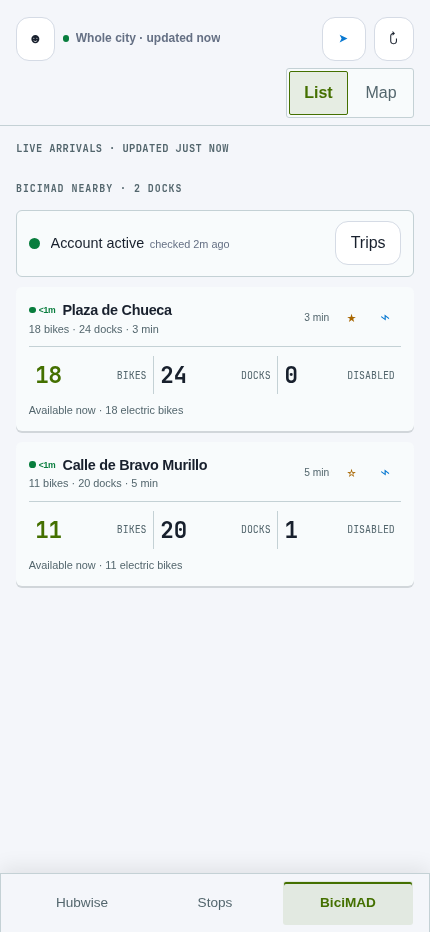
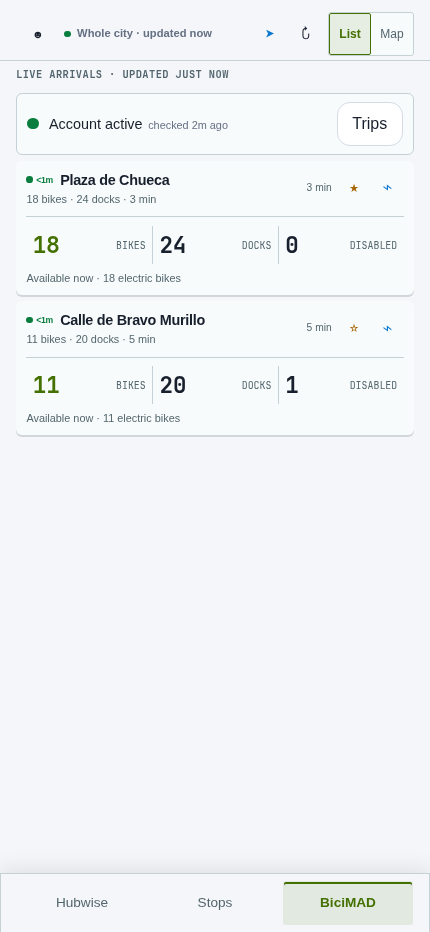
Collapse toolbar to one row and tighten departure boards

diff --git a/design/system-hubs.html b/design/system-hubs.html
@@ -1,3 +1,3 @@
 <!doctype html>
 <html lang="en" data-theme="dark"><head><meta charset="utf-8"><meta name="viewport" content="width=device-width,initial-scale=1"><title>Hubwise system hubs</title><link rel="stylesheet" href="../web/style.css"><style>body{min-height:100dvh}.study-label{margin:.7rem 0 .2rem;color:var(--signal-muted);font:700 .62rem ui-monospace,monospace;letter-spacing:.1em;text-transform:uppercase}</style></head>
-<body class="ui-signal ui-signal-v2 ui-signal-compact ui-signal-system"><header><button id="auth-button">☻</button><div id="header-context"><i></i><span>García Luna · 3 min</span></div><button id="nearby-stops-open">➤</button><button id="refresh-all">↻</button><nav id="view-toggle" class="segmented"><button aria-selected="true">List</button><button aria-selected="false">Map</button></nav></header><p id="status">Live arrivals · updated just now</p><p class="study-label">Nearby hubs · expanded state</p><main id="stops"><article class="place-card reachability-comfortable routes-expanded"><div class="place-card-heading"><h2><span class="freshness-dot fresh"></span> Madrid Río</h2><span class="muted">280 m</span><button class="place-directions">⌁</button><button class="place-directions">♢</button><button class="place-directions">⋯</button></div><div class="place-route"><span class="place-line">27</span><p><button class="stop-open place-stop-open">Stop 1836 · 180 m walk</button><br><small>direct <span class="route-later">· then 40 · 52 min</span></small></p><button class="place-route-directions" aria-label="Walking directions">↗</button><time>4 min</time></div><div class="place-route place-route-alternative"><span class="place-line">5</span><p><button class="stop-open place-stop-open">Stop 1836 · 180 m walk</button><br><small>direct <span class="route-later">· then 27 min</span></small></p><button class="place-route-directions" aria-label="Walking directions">↗</button><time>6 min</time></div><p class="age">Updated 12 seconds ago · 2 direct routes</p></article><article class="place-card reachability-tight"><div class="place-card-heading"><h2><span class="freshness-dot aging"></span> Puerta del Sol</h2><span class="muted">510 m</span><button class="place-directions">⌁</button><button class="place-directions">♢</button><button class="place-directions">⋯</button></div><div class="place-route"><span class="place-line">3</span><p><button class="stop-open place-stop-open">Stop 1836 · 180 m walk</button><br><small>direct <span class="route-later">· then 5 · 40 min</span></small></p><button class="place-route-directions" aria-label="Walking directions">↗</button><time>7 min</time></div></article><article class="place-card"><div class="place-card-heading"><h2><span class="freshness-dot fresh"></span> Tribunal</h2><span class="muted">690 m</span><button class="place-directions">⌁</button><button class="place-directions">♢</button><button class="place-directions">⋯</button></div><div class="place-route"><span class="place-line">10</span><p><button class="stop-open place-stop-open">Stop 1836 · 180 m walk</button><br><small>direct <span class="route-later">· then 5 · 40 min</span></small></p><button class="place-route-directions" aria-label="Walking directions">↗</button><time>9 min</time></div></article></main><nav id="primary-menu"><button aria-selected="true">Hubwise</button><button aria-selected="false">Stops</button><button aria-selected="false">BiciMAD</button></nav><button id="fab">+</button></body></html>
+<body class="ui-signal ui-signal-v2 ui-signal-compact ui-signal-system"><header><button id="auth-button">☻</button><div id="header-context"><i></i><span>García Luna · 3 min</span></div><button id="nearby-stops-open">➤</button><button id="refresh-all">↻</button><nav id="view-toggle" class="segmented"><button aria-selected="true">List</button><button aria-selected="false">Map</button></nav></header><p id="status">Live arrivals · updated just now</p><main id="stops"><article class="place-card reachability-comfortable routes-expanded"><div class="place-card-heading"><h2><span class="freshness-dot fresh"></span> Madrid Río</h2><span class="muted">280 m</span><button class="place-directions">⌁</button><button class="place-directions">♢</button><button class="place-directions">⋯</button></div><div class="place-route"><span class="place-line">27</span><p><button class="stop-open place-stop-open">Stop 1836 · 180 m walk</button><br><small>direct <span class="route-later">· then 40 · 52 min</span></small></p><button class="place-route-directions" aria-label="Walking directions">↗</button><time>4 min</time></div><div class="place-route place-route-alternative"><span class="place-line">5</span><p><button class="stop-open place-stop-open">Stop 1836 · 180 m walk</button><br><small>direct <span class="route-later">· then 27 min</span></small></p><button class="place-route-directions" aria-label="Walking directions">↗</button><time>6 min</time></div><p class="age">Updated 12 seconds ago · 2 direct routes</p></article><article class="place-card reachability-tight"><div class="place-card-heading"><h2><span class="freshness-dot aging"></span> Puerta del Sol</h2><span class="muted">510 m</span><button class="place-directions">⌁</button><button class="place-directions">♢</button><button class="place-directions">⋯</button></div><div class="place-route"><span class="place-line">3</span><p><button class="stop-open place-stop-open">Stop 1836 · 180 m walk</button><br><small>direct <span class="route-later">· then 5 · 40 min</span></small></p><button class="place-route-directions" aria-label="Walking directions">↗</button><time>7 min</time></div></article><article class="place-card"><div class="place-card-heading"><h2><span class="freshness-dot fresh"></span> Tribunal</h2><span class="muted">690 m</span><button class="place-directions">⌁</button><button class="place-directions">♢</button><button class="place-directions">⋯</button></div><div class="place-route"><span class="place-line">10</span><p><button class="stop-open place-stop-open">Stop 1836 · 180 m walk</button><br><small>direct <span class="route-later">· then 5 · 40 min</span></small></p><button class="place-route-directions" aria-label="Walking directions">↗</button><time>9 min</time></div></article></main><nav id="primary-menu"><button aria-selected="true">Hubwise</button><button aria-selected="false">Stops</button><button aria-selected="false">BiciMAD</button></nav><button id="fab">+</button></body></html>

diff --git a/design/system-stops.html b/design/system-stops.html
@@ -1,3 +1,3 @@
 <!doctype html>
 <html lang="en" data-theme="dark"><head><meta charset="utf-8"><meta name="viewport" content="width=device-width,initial-scale=1"><title>Hubwise system stops</title><link rel="stylesheet" href="../web/style.css"><style>body{min-height:100dvh}.study-label{margin:.7rem 0 .2rem;color:var(--signal-muted);font:700 .62rem ui-monospace,monospace;letter-spacing:.1em;text-transform:uppercase}</style></head>
-<body class="ui-signal ui-signal-v2 ui-signal-compact ui-signal-system"><header><button id="auth-button">☻</button><div id="header-context"><i></i><span>3 saved stops</span></div><button id="nearby-stops-open">➤</button><button id="refresh-all">↻</button><nav id="view-toggle" class="segmented"><button aria-selected="true">List</button><button aria-selected="false">Map</button></nav></header><p id="status">Live arrivals · updated just now</p><p class="study-label">Saved stops · live arrivals</p><main id="stops"><article class="stop"><div class="head"><div class="title"><h2><span class="freshness-dot fresh"></span> Puerta del Sol</h2><p class="stop-num">Stop 30 · Metro Sol</p></div><div class="controls"><button class="icon-btn">›</button><button class="icon-btn">♧</button><button class="icon-btn">⌁</button></div></div><ul><li><span class="line">5</span><span class="destination">Casa de Campo</span><span class="eta">2 min</span></li><li><span class="line">3</span><span class="destination">Villaverde</span><span class="eta">7 min</span></li><li><span class="line">40</span><span class="destination">Tribunal</span><span class="eta">11 min</span></li></ul><p class="age">Updated 12 seconds ago</p></article><article class="stop"><div class="head"><div class="title"><h2><span class="freshness-dot aging"></span> Plaza de Castilla</h2><p class="stop-num">Stop 1547 · Chamberí</p></div><div class="controls"><button class="icon-btn">›</button><button class="icon-btn">♧</button><button class="icon-btn">⌁</button></div></div><ul><li><span class="line">1</span><span class="destination">Valdecarros</span><span class="eta">3 min</span></li><li><span class="line">9</span><span class="destination">Argentina</span><span class="eta">6 min</span></li></ul><p class="age">Updated 1 minute ago</p></article><article class="stop"><div class="head"><div class="title"><h2><span class="freshness-dot fresh"></span> Tribunal</h2><p class="stop-num">Stop 2659 · Tribunal</p></div><div class="controls"><button class="icon-btn">›</button><button class="icon-btn">♧</button><button class="icon-btn">⌁</button></div></div><ul><li><span class="line">10</span><span class="destination">Puente de Vallecas</span><span class="eta">9 min</span></li><li><span class="line">51</span><span class="destination">Callas</span><span class="eta">14 min</span></li></ul><p class="age">Updated 18 seconds ago</p></article></main><nav id="primary-menu"><button aria-selected="false">Hubwise</button><button aria-selected="true">Stops</button><button aria-selected="false">BiciMAD</button></nav></body></html>
+<body class="ui-signal ui-signal-v2 ui-signal-compact ui-signal-system"><header><button id="auth-button">☻</button><div id="header-context"><i></i><span>3 saved stops</span></div><button id="nearby-stops-open">➤</button><button id="refresh-all">↻</button><nav id="view-toggle" class="segmented"><button aria-selected="true">List</button><button aria-selected="false">Map</button></nav></header><p id="status">Live arrivals · updated just now</p><main id="stops"><article class="stop"><div class="head"><div class="title"><h2><span class="freshness-dot fresh"></span> Puerta del Sol</h2><p class="stop-num">Stop 30 · Metro Sol</p></div><div class="controls"><button class="icon-btn">›</button><button class="icon-btn">♧</button><button class="icon-btn">⌁</button></div></div><ul><li><span class="line">5</span><span class="destination">Casa de Campo</span><span class="eta">2 min</span></li><li><span class="line">3</span><span class="destination">Villaverde</span><span class="eta">7 min</span></li><li><span class="line">40</span><span class="destination">Tribunal</span><span class="eta">11 min</span></li></ul><p class="age">Updated 12 seconds ago</p></article><article class="stop"><div class="head"><div class="title"><h2><span class="freshness-dot aging"></span> Plaza de Castilla</h2><p class="stop-num">Stop 1547 · Chamberí</p></div><div class="controls"><button class="icon-btn">›</button><button class="icon-btn">♧</button><button class="icon-btn">⌁</button></div></div><ul><li><span class="line">1</span><span class="destination">Valdecarros</span><span class="eta">3 min</span></li><li><span class="line">9</span><span class="destination">Argentina</span><span class="eta">6 min</span></li></ul><p class="age">Updated 1 minute ago</p></article><article class="stop"><div class="head"><div class="title"><h2><span class="freshness-dot fresh"></span> Tribunal</h2><p class="stop-num">Stop 2659 · Tribunal</p></div><div class="controls"><button class="icon-btn">›</button><button class="icon-btn">♧</button><button class="icon-btn">⌁</button></div></div><ul><li><span class="line">10</span><span class="destination">Puente de Vallecas</span><span class="eta">9 min</span></li><li><span class="line">51</span><span class="destination">Callas</span><span class="eta">14 min</span></li></ul><p class="age">Updated 18 seconds ago</p></article></main><nav id="primary-menu"><button aria-selected="false">Hubwise</button><button aria-selected="true">Stops</button><button aria-selected="false">BiciMAD</button></nav></body></html>

diff --git a/design/system-bikes.html b/design/system-bikes.html
@@ -1,3 +1,3 @@
 <!doctype html>
 <html lang="en" data-theme="dark"><head><meta charset="utf-8"><meta name="viewport" content="width=device-width,initial-scale=1"><title>Hubwise system bikes</title><link rel="stylesheet" href="../web/style.css"><style>body{min-height:100dvh}.study-label{margin:.7rem 0 .2rem;color:var(--signal-muted);font:700 .62rem ui-monospace,monospace;letter-spacing:.1em;text-transform:uppercase}</style></head>
-<body class="ui-signal ui-signal-v2 ui-signal-compact ui-signal-system"><header><button id="auth-button">☻</button><div id="header-context"><i></i><span>Whole city · updated now</span></div><button id="nearby-stops-open">➤</button><button id="refresh-all">↻</button><nav id="view-toggle" class="segmented"><button aria-selected="true">List</button><button aria-selected="false">Map</button></nav></header><p id="status">Live arrivals · updated just now</p><p class="study-label">BiciMAD nearby · 2 docks</p><section class="bike-account"><span class="bike-account-dot ready"></span><span id="bike-account-text"><span>Account active</span><small class="bike-account-freshness">checked 2m ago</small></span><button>Trips</button></section><main id="bikes"><article class="bike"><div class="bike-head"><div class="title"><h2><span class="freshness-dot fresh"></span> Plaza de Chueca</h2><p class="stop-num">18 bikes · 24 docks · 3 min</p></div><span class="bike-card-distance">3 min</span><div class="controls"><button class="bike-favourite">★</button><button class="bike-directions">⌁</button></div></div><div class="bike-counts"><div class="bike-metric good"><strong>18</strong><span>bikes</span></div><div class="bike-metric"><strong>24</strong><span>docks</span></div><div class="bike-metric"><strong>0</strong><span>disabled</span></div></div><p class="age">Available now · 18 electric bikes</p></article><article class="bike"><div class="bike-head"><div class="title"><h2><span class="freshness-dot fresh"></span> Calle de Bravo Murillo</h2><p class="stop-num">11 bikes · 20 docks · 5 min</p></div><span class="bike-card-distance">5 min</span><div class="controls"><button class="bike-favourite">☆</button><button class="bike-directions">⌁</button></div></div><div class="bike-counts"><div class="bike-metric good"><strong>11</strong><span>bikes</span></div><div class="bike-metric"><strong>20</strong><span>docks</span></div><div class="bike-metric"><strong>1</strong><span>disabled</span></div></div><p class="age">Available now · 11 electric bikes</p></article></main><nav id="primary-menu"><button aria-selected="false">Hubwise</button><button aria-selected="false">Stops</button><button aria-selected="true">BiciMAD</button></nav></body></html>
+<body class="ui-signal ui-signal-v2 ui-signal-compact ui-signal-system"><header><button id="auth-button">☻</button><div id="header-context"><i></i><span>Whole city · updated now</span></div><button id="nearby-stops-open">➤</button><button id="refresh-all">↻</button><nav id="view-toggle" class="segmented"><button aria-selected="true">List</button><button aria-selected="false">Map</button></nav></header><p id="status">Live arrivals · updated just now</p><section class="bike-account"><span class="bike-account-dot ready"></span><span id="bike-account-text"><span>Account active</span><small class="bike-account-freshness">checked 2m ago</small></span><button>Trips</button></section><main id="bikes"><article class="bike"><div class="bike-head"><div class="title"><h2><span class="freshness-dot fresh"></span> Plaza de Chueca</h2><p class="stop-num">18 bikes · 24 docks · 3 min</p></div><span class="bike-card-distance">3 min</span><div class="controls"><button class="bike-favourite">★</button><button class="bike-directions">⌁</button></div></div><div class="bike-counts"><div class="bike-metric good"><strong>18</strong><span>bikes</span></div><div class="bike-metric"><strong>24</strong><span>docks</span></div><div class="bike-metric"><strong>0</strong><span>disabled</span></div></div><p class="age">Available now · 18 electric bikes</p></article><article class="bike"><div class="bike-head"><div class="title"><h2><span class="freshness-dot fresh"></span> Calle de Bravo Murillo</h2><p class="stop-num">11 bikes · 20 docks · 5 min</p></div><span class="bike-card-distance">5 min</span><div class="controls"><button class="bike-favourite">☆</button><button class="bike-directions">⌁</button></div></div><div class="bike-counts"><div class="bike-metric good"><strong>11</strong><span>bikes</span></div><div class="bike-metric"><strong>20</strong><span>docks</span></div><div class="bike-metric"><strong>1</strong><span>disabled</span></div></div><p class="age">Available now · 11 electric bikes</p></article></main><nav id="primary-menu"><button aria-selected="false">Hubwise</button><button aria-selected="false">Stops</button><button aria-selected="true">BiciMAD</button></nav></body></html>

diff --git a/web/style.css b/web/style.css
@@ -2296,6 +2296,11 @@ body.nav-hidden #fab { transform: translateY(calc(100% + 4.15rem + env(safe-area
 
 .ui-signal-system header {
   flex-shrink: 0;
+  grid-template-columns: 44px minmax(0, 1fr) 36px 36px auto;
+  grid-template-areas: "auth context near refresh view";
+  gap: 4px;
+  min-height: 52px;
+  padding-block: 4px;
   border-bottom: 1px solid var(--signal-line);
   background: var(--bg);
 }
@@ -2309,8 +2314,8 @@ body.nav-hidden #fab { transform: translateY(calc(100% + 4.15rem + env(safe-area
 }
 
 .ui-signal-system #status {
-  margin-block: 0.7rem;
-  padding: 0.25rem 0;
+  margin-block: 0.35rem;
+  padding: 0;
   border: 0;
   background: transparent;
   color: var(--signal-muted);
@@ -2329,8 +2334,8 @@ body.nav-hidden #fab { transform: translateY(calc(100% + 4.15rem + env(safe-area
 .ui-signal-system .place-card,
 .ui-signal-system .stop,
 .ui-signal-system .bike {
-  margin-top: 0.65rem;
-  padding: 0.8rem;
+  margin-top: 0.4rem;
+  padding: 0.55rem 0.65rem;
   border-radius: 6px;
   background: var(--signal-panel);
   box-shadow: 0 2px 0 color-mix(in srgb, var(--signal-ink) 15%, transparent);
@@ -2344,13 +2349,14 @@ body.nav-hidden #fab { transform: translateY(calc(100% + 4.15rem + env(safe-area
 .ui-signal-system .place-card.reachability-missed { border-left-width: 3px; }
 
 .ui-signal-system .place-card-heading {
-  grid-template-columns: minmax(0, 1fr) repeat(3, 36px);
+  padding: 0;
+  grid-template-columns: minmax(0, 1fr) auto repeat(3, 28px);
   gap: 0.2rem;
 }
 
 .ui-signal-system .place-card-heading h2 {
-  grid-column: 1 / -1;
-  font-size: 1rem;
+  grid-column: auto;
+  font-size: 0.9rem;
   line-height: 1.4;
 }
 
@@ -2367,8 +2373,8 @@ body.nav-hidden #fab { transform: translateY(calc(100% + 4.15rem + env(safe-area
 .ui-signal-system .place-route {
   grid-template-columns: 2.6rem minmax(0, 1fr) 36px auto;
   gap: 0.45rem;
-  margin-top: 0.35rem;
-  padding-top: 0.65rem;
+  margin-top: 0.2rem;
+  padding: 0.45rem 0;
   border-top-style: solid;
 }
 
@@ -2401,7 +2407,7 @@ body.nav-hidden #fab { transform: translateY(calc(100% + 4.15rem + env(safe-area
 .ui-signal-system .stop li::before { content: none; }
 .ui-signal-system .stop li {
   grid-template-columns: 2.6rem minmax(0, 1fr) auto;
-  padding-block: 0.7rem;
+  padding-block: 0.5rem;
   border-bottom-style: solid;
 }
 .ui-signal-system .stop .destination { grid-column: 2; font-size: 0.82rem; }
@@ -2438,3 +2444,27 @@ body.nav-hidden #fab { transform: translateY(calc(100% + 4.15rem + env(safe-area
   border-radius: 6px;
   box-shadow: none;
 }
+
+/* One toolbar row, including the view switch, even on a 320px phone. */
+.ui-signal-system header > button {
+  width: 36px;
+  min-width: 0;
+  min-height: 44px;
+  padding: 0;
+  border-color: transparent;
+  border-radius: 4px;
+  background: transparent;
+}
+.ui-signal-system header #auth-button { width: 44px; font-size: 0.7rem; }
+.ui-signal-system #header-context { min-width: 0; padding: 0; font-size: 0.7rem; }
+.ui-signal-system #header-context span { overflow: hidden; text-overflow: ellipsis; white-space: nowrap; }
+.ui-signal-system #view-toggle { padding: 0; gap: 0; }
+.ui-signal-system #view-toggle button { min-width: 42px; min-height: 42px; padding: 0 0.4rem; font-size: 0.75rem; }
+.ui-signal-system #status:empty { display: none; }
+.ui-signal-system .place-card-heading .place-directions,
+.ui-signal-system .place-card-heading .track-button { width: 28px; min-width: 28px; padding: 0; }
+.ui-signal-system .place-card-heading h2 { flex-wrap: wrap; gap: 0.25rem; }
+.ui-signal-system .place-card-heading .freshness-dot { order: 1; }
+.ui-signal-system .stop ul { margin-block: 0.35rem 0; }
+.ui-signal-system .age { margin-top: 0.35rem; padding: 0; }
+.ui-signal-system .bike-account { margin-block: 0.4rem 0; padding: 0.5rem 0.65rem; }

diff --git a/design/README.md b/design/README.md
@@ -9,7 +9,7 @@ To inspect light mode, change the root `data-theme` attribute to `light` in DevT
 ## September refinement
 
 Departures now carry the strongest emphasis. Status and navigation have quieter
-borders, hub titles occupy their own row, and arrival times use a consistent green.
+borders, hub titles share a compact row with their actions, and arrival times use a consistent green.
 Route numbers retain their offset shadow. Bike counts use simple dividers, with
 neutral colors for dock and disabled counts. Freshness retains its state colors.
 
@@ -26,3 +26,9 @@ These checks cover static layout, not live map or account interactions.
 Validation: 148 API tests, 19 web tests, 120-element DOM smoke check, and
 `git diff --check` passed. The installed Workers test runtime reports an older
 compatibility date than configured; the tests still pass.
+
+## Single-row toolbar iteration
+
+The account, location, nearby, refresh, and List/Map controls now share one 52px
+toolbar at every checked width. Removed study-only headings and tightened status,
+card headers, and route spacing. All ten screenshots were regenerated.
